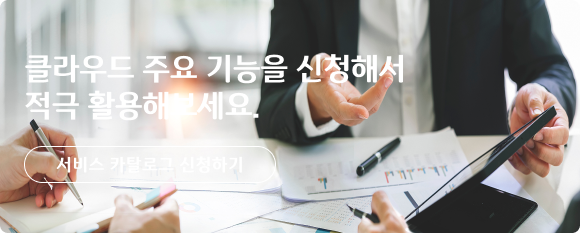
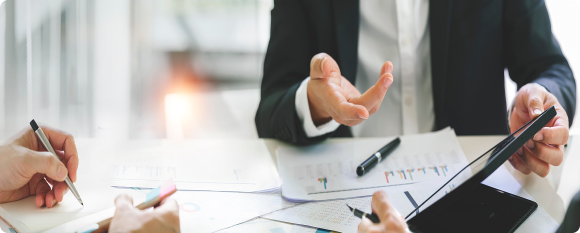
메인

diff --git a/src/app/pages/usr/man/CLPMANM00100.tsx b/src/app/pages/usr/man/CLPMANM00100.tsx
@@ -7,8 +7,7 @@ import Card from "../../../shared/components/ui/card/Card";
 import useBasePage from "../../../shared/hooks/base-page.hook";
 import mainImg from '../../../../assets/images/main_img.png';
 import listImg from '../../../../assets/images/manual_img.png';
-import banner01 from '../../../../assets/images/main-bn01.png';
-
+import { Link } from 'react-router-dom';
 
 // 매뉴얼 화면
 const CLPMANM00100: React.FC = ({}) => {
@@ -155,12 +154,6 @@ const CLPMANM00100: React.FC = ({}) => {
             ],
             button: <Button label='메뉴얼 보기' className="p-button xxl" onClick={btnClick}/>
         },
-
-
-
-        
-        
-        
     ]
        
     //visual 배너
@@ -189,6 +182,52 @@ const CLPMANM00100: React.FC = ({}) => {
 
     ]
     
+    //최근게시물
+    const noticeList = [
+        {
+            title:'클라우드포탈이 오픈하였습니다.',
+            date:'2022-08-01',
+        },
+        {
+            title:'클라우드포탈이 오픈하였습니다.',
+            date:'2022-08-01',
+        },
+        {
+            title:'클라우드포탈이 오픈하였습니다.',
+            date:'2022-08-01',
+        },
+        {
+            title:'클라우드포탈이 오픈하였습니다.',
+            date:'2022-08-01',
+        },
+        {
+            title:'클라우드포탈이 오픈하였습니다.',
+            date:'2022-08-01',
+        },
+    ]
+    const communicationList = [
+        {
+            title:'소통공간입니다. 소통공간입니다.',
+            date:'2022-08-01',
+        },
+        {
+            title:'소통공간입니다. 소통공간입니다.',
+            date:'2022-08-01',
+        },
+        {
+            title:'소통공간입니다. 소통공간입니다.',
+            date:'2022-08-01',
+        },
+        {
+            title:'소통공간입니다. 소통공간입니다.',
+            date:'2022-08-01',
+        },
+        {
+            title:'소통공간입니다. 소통공간입니다.',
+            date:'2022-08-01',
+        },
+    ]
+
     return(
     <BasePage className="CLPMANM00100">
         {/* 배너 */}
@@ -223,18 +262,62 @@ const CLPMANM00100: React.FC = ({}) => {
 
             <Button className='iconBtnAdd p-button-text mr10' icon='pi pi-plus-circle' onClick={addBtn} />
         </div>
+
         <div>
-        
             <h2 className="contentTitle mt60">다양한 클라우드 지원을 받으세요.</h2>
 
-            <div className="banner">
+            <div className="banner mt40">
                 <div className="bannerItem">
-                <p>정보화사업의 예산산정을 효율적으로 <br/>산정하도록 도와드립니다.</p>
-                <Button label='The-Fast Cloud 신청하기' className="p-button outline" onClick={btnClick}/>
+                    <p>정보화사업의 예산산정을 효율적으로 <br/>산정하도록 도와드립니다.</p>
+                    <Button label='The-Fast Cloud 신청하기' className="p-button outline" onClick={btnClick}/>
+                </div>
+                <div className="bannerItem item2">
+                    <p>클라우드 주요 기능을 신청해서<br/>적극 활용해보세요.</p>
+                    <Button label='서비스 카탈로그 신청하기' className="p-button outline" onClick={btnClick}/>
                 </div>
             </div>
         </div>
-        
+
+        <div className="recentPost mt60">
+            <div className="recentList">
+                <div className="title">
+                    <h2>공지사항</h2>
+                    <p>
+                        <Link to='/' className='more'>더보기<i className="pi pi-angle-right"></i></Link> 
+                    </p>
+                </div>
+
+                <ul>
+                    {
+                        noticeList.map((noticeList,index) => (
+                                <li key={`noticeList${index}`}>
+                                    <span>{noticeList.title}</span>
+                                    <span>{noticeList.date}</span>
+                                </li>
+                        ))
+                    }
+                </ul>
+            </div>
+            <div className="recentList">
+                <div className="title">
+                    <h2>소통공간</h2>
+                    <p>
+                        <Link to='/' className='more'>더보기<i className="pi pi-angle-right"></i></Link> 
+                    </p>
+                </div>
+                
+                <ul>
+                    {
+                        communicationList.map((communicationList,index) => (
+                                <li key={`communicationList${index}`}>
+                                    <span>{communicationList.title}</span>
+                                    <span>{communicationList.date}</span>
+                                </li>
+                        ))
+                    }
+                </ul>
+            </div>
+        </div>        
     </BasePage>)
 }
 export default CLPMANM00100;

diff --git a/src/app/pages/usr/man/CLPMANM00100.css b/src/app/pages/usr/man/CLPMANM00100.css
@@ -73,6 +73,7 @@ color: var(--gray-scale-gray800) !important;
 .CLPMANM00100 .banner{
     display: flex;
     justify-content: space-evenly;
+
 }
 .bannerItem{
     width:580px;
@@ -80,6 +81,17 @@ color: var(--gray-scale-gray800) !important;
     border-radius: 10px;
     background: linear-gradient(0deg, rgba(0, 0, 0, 0.4), rgba(0, 0, 0, 0.4)), url('../../../../assets/images/main-bn01.png');
     color:#fff;
+    padding:30px 20px;
+    align-items: center;
+    flex-wrap: wrap;
+    display: flex;
+}
+.bannerItem:hover{
+    background: linear-gradient(0deg, rgba(10, 29, 105, 0.5), rgba(10, 29, 105, 0.5)),  url('../../../../assets/images/main-bn01.png');
+}
+.bannerItem p{
+    font-size: 30px;
+    font-weight: bold;
 }
 .bannerItem .outline {
     background: transparent !important;
@@ -88,4 +100,44 @@ color: var(--gray-scale-gray800) !important;
     height: 40px;
     border-radius: 20px;
     font-size: 17px;
+    margin-top: 20px;
+}
+.bannerItem.item2 {
+    background: linear-gradient(0deg, rgba(0, 0, 0, 0.4), rgba(0, 0, 0, 0.4)), url('../../../../assets/images/main-bn02.png');
+
+}
+.bannerItem.item2:hover {
+    background: linear-gradient(0deg, rgba(10, 29, 105, 0.5), rgba(10, 29, 105, 0.5)), url('../../../../assets/images/main-bn02.png');
+
+}
+.recentPost {
+    display: flex;
+    justify-content: space-evenly;
+    background-color: #F8F8F8;
+    width: 100%;
+    padding: 40px 0;
+}
+.recentPost .recentList{
+    width:580px;
+}
+.recentPost .recentList .title {
+    display: flex;
+    justify-content: space-between;
+    align-items: end;
+    color:#333;
+}
+.recentPost .recentList .title a {
+    color:#333;
+}
+.recentPost .recentList .title a:hover {
+    text-decoration: underline;
+}
+.recentPost .recentList ul{
+    list-style: none;
+
+}
+.recentPost .recentList ul li{
+    display: flex;
+    justify-content: space-between;
+    margin-top: 10px;
 }
